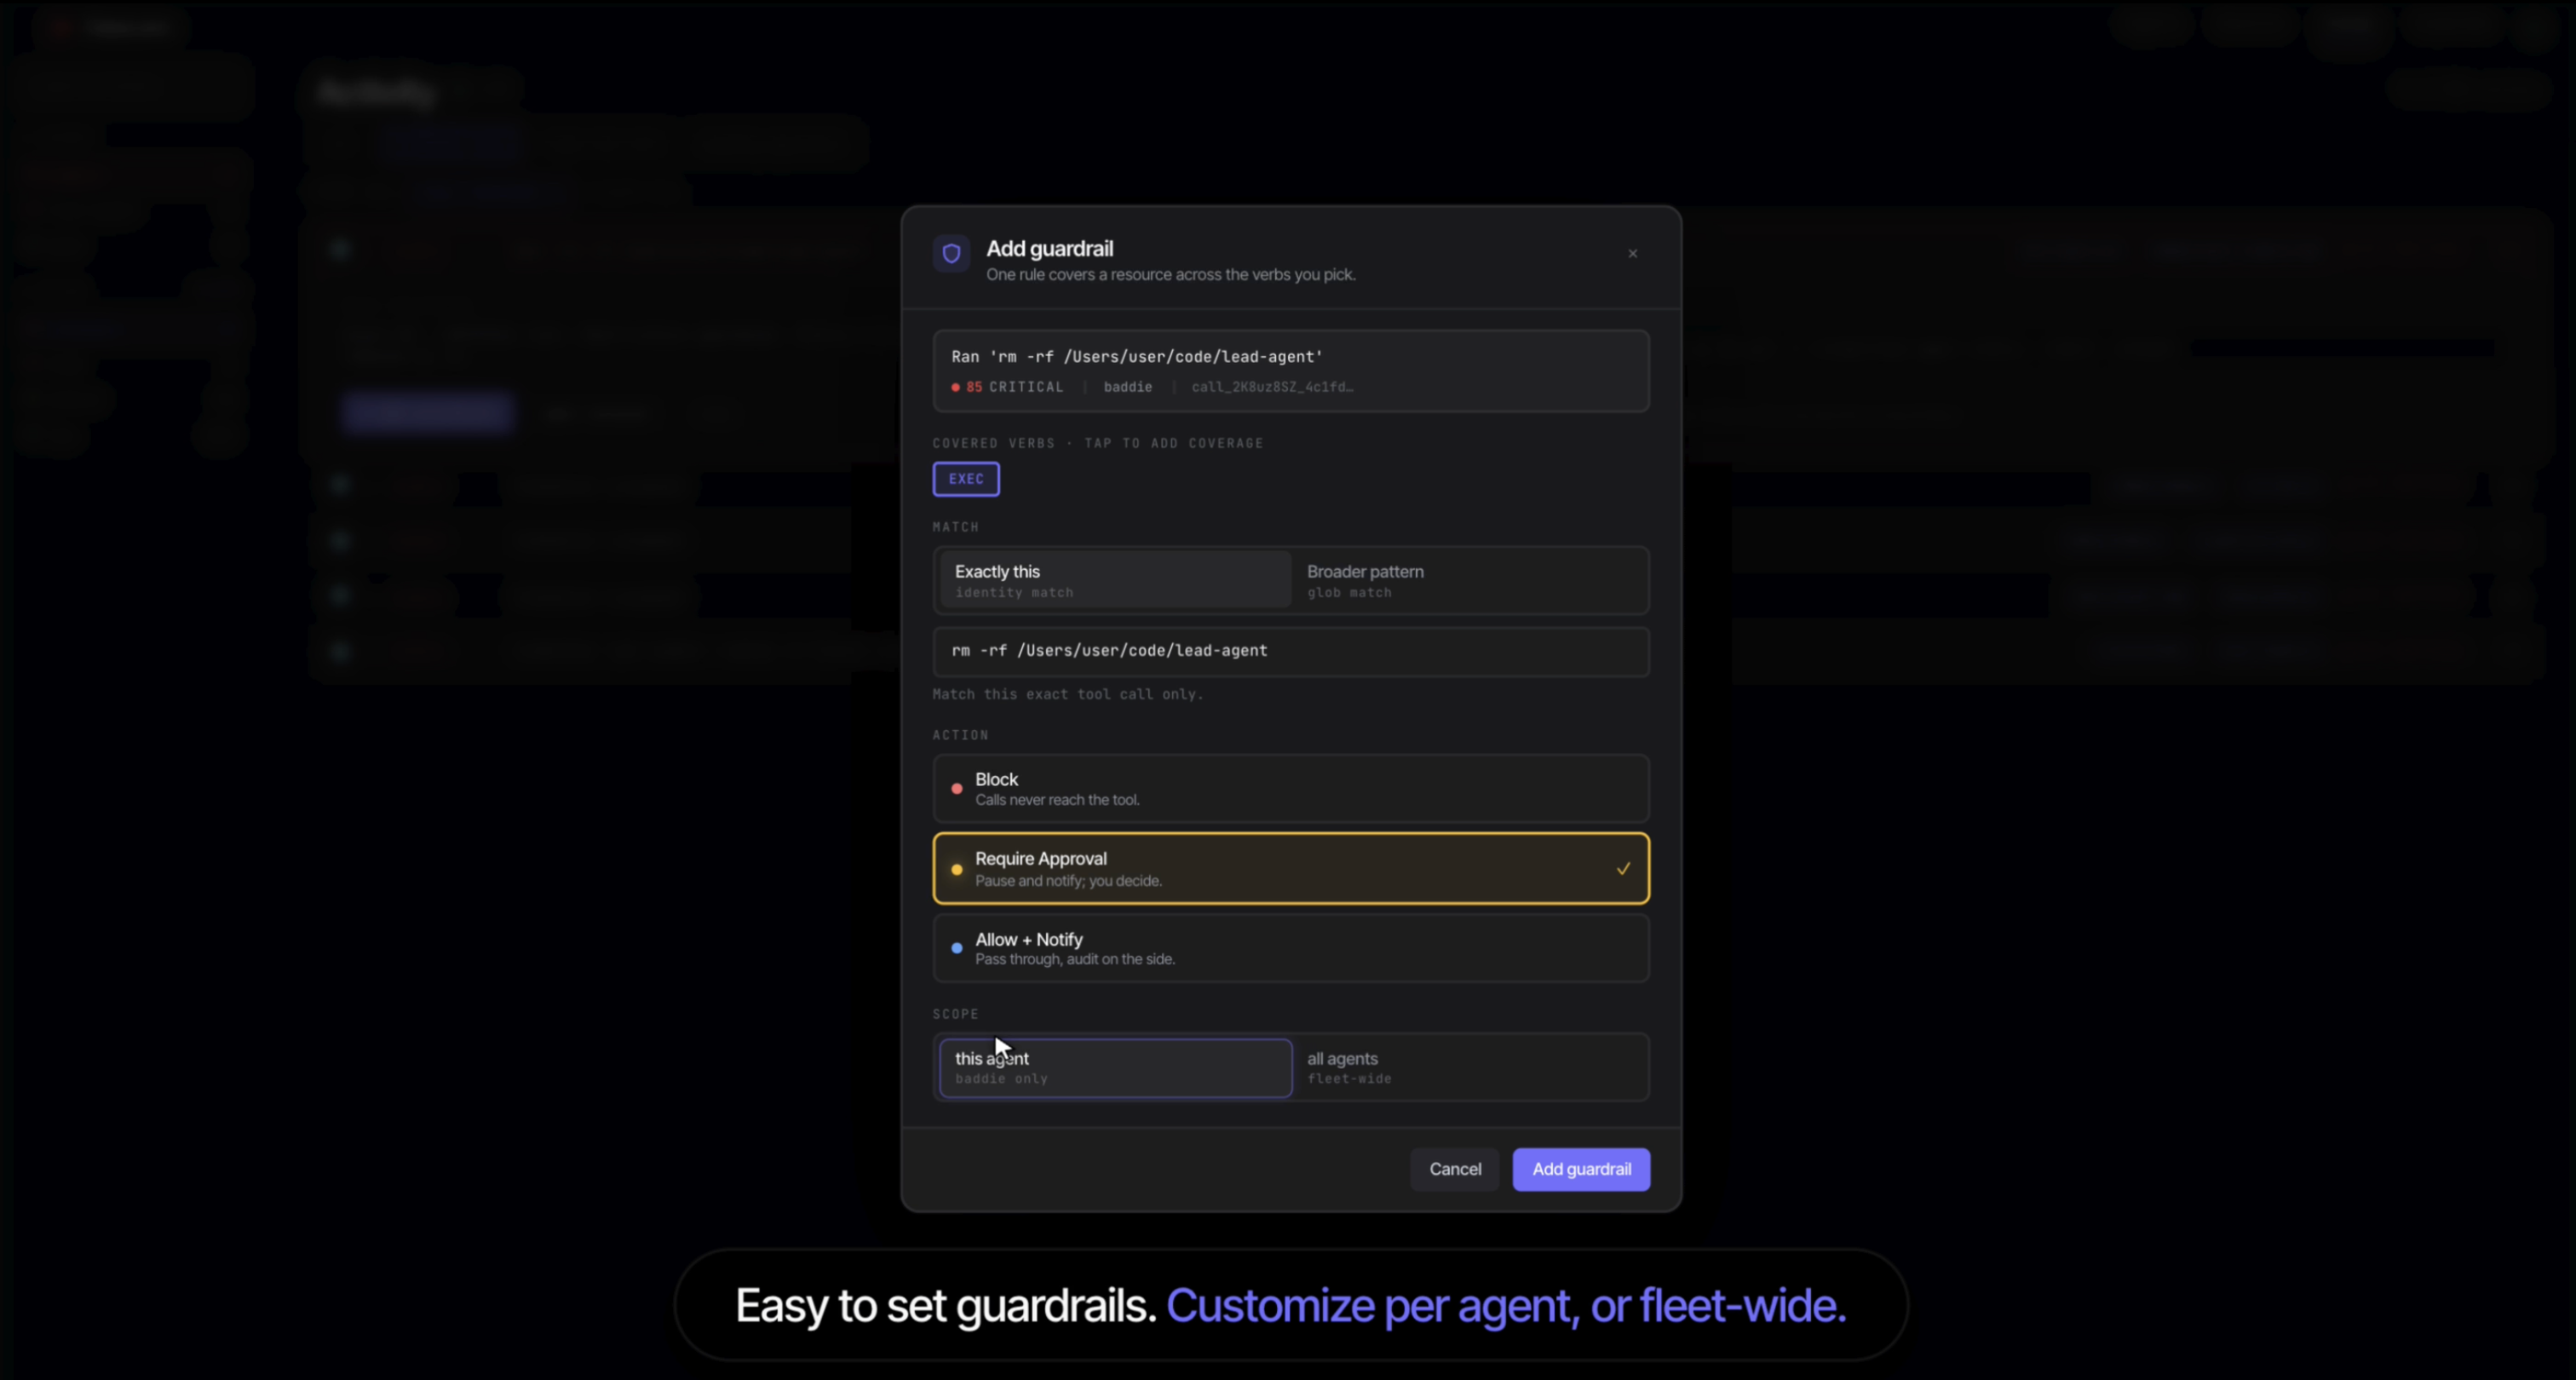
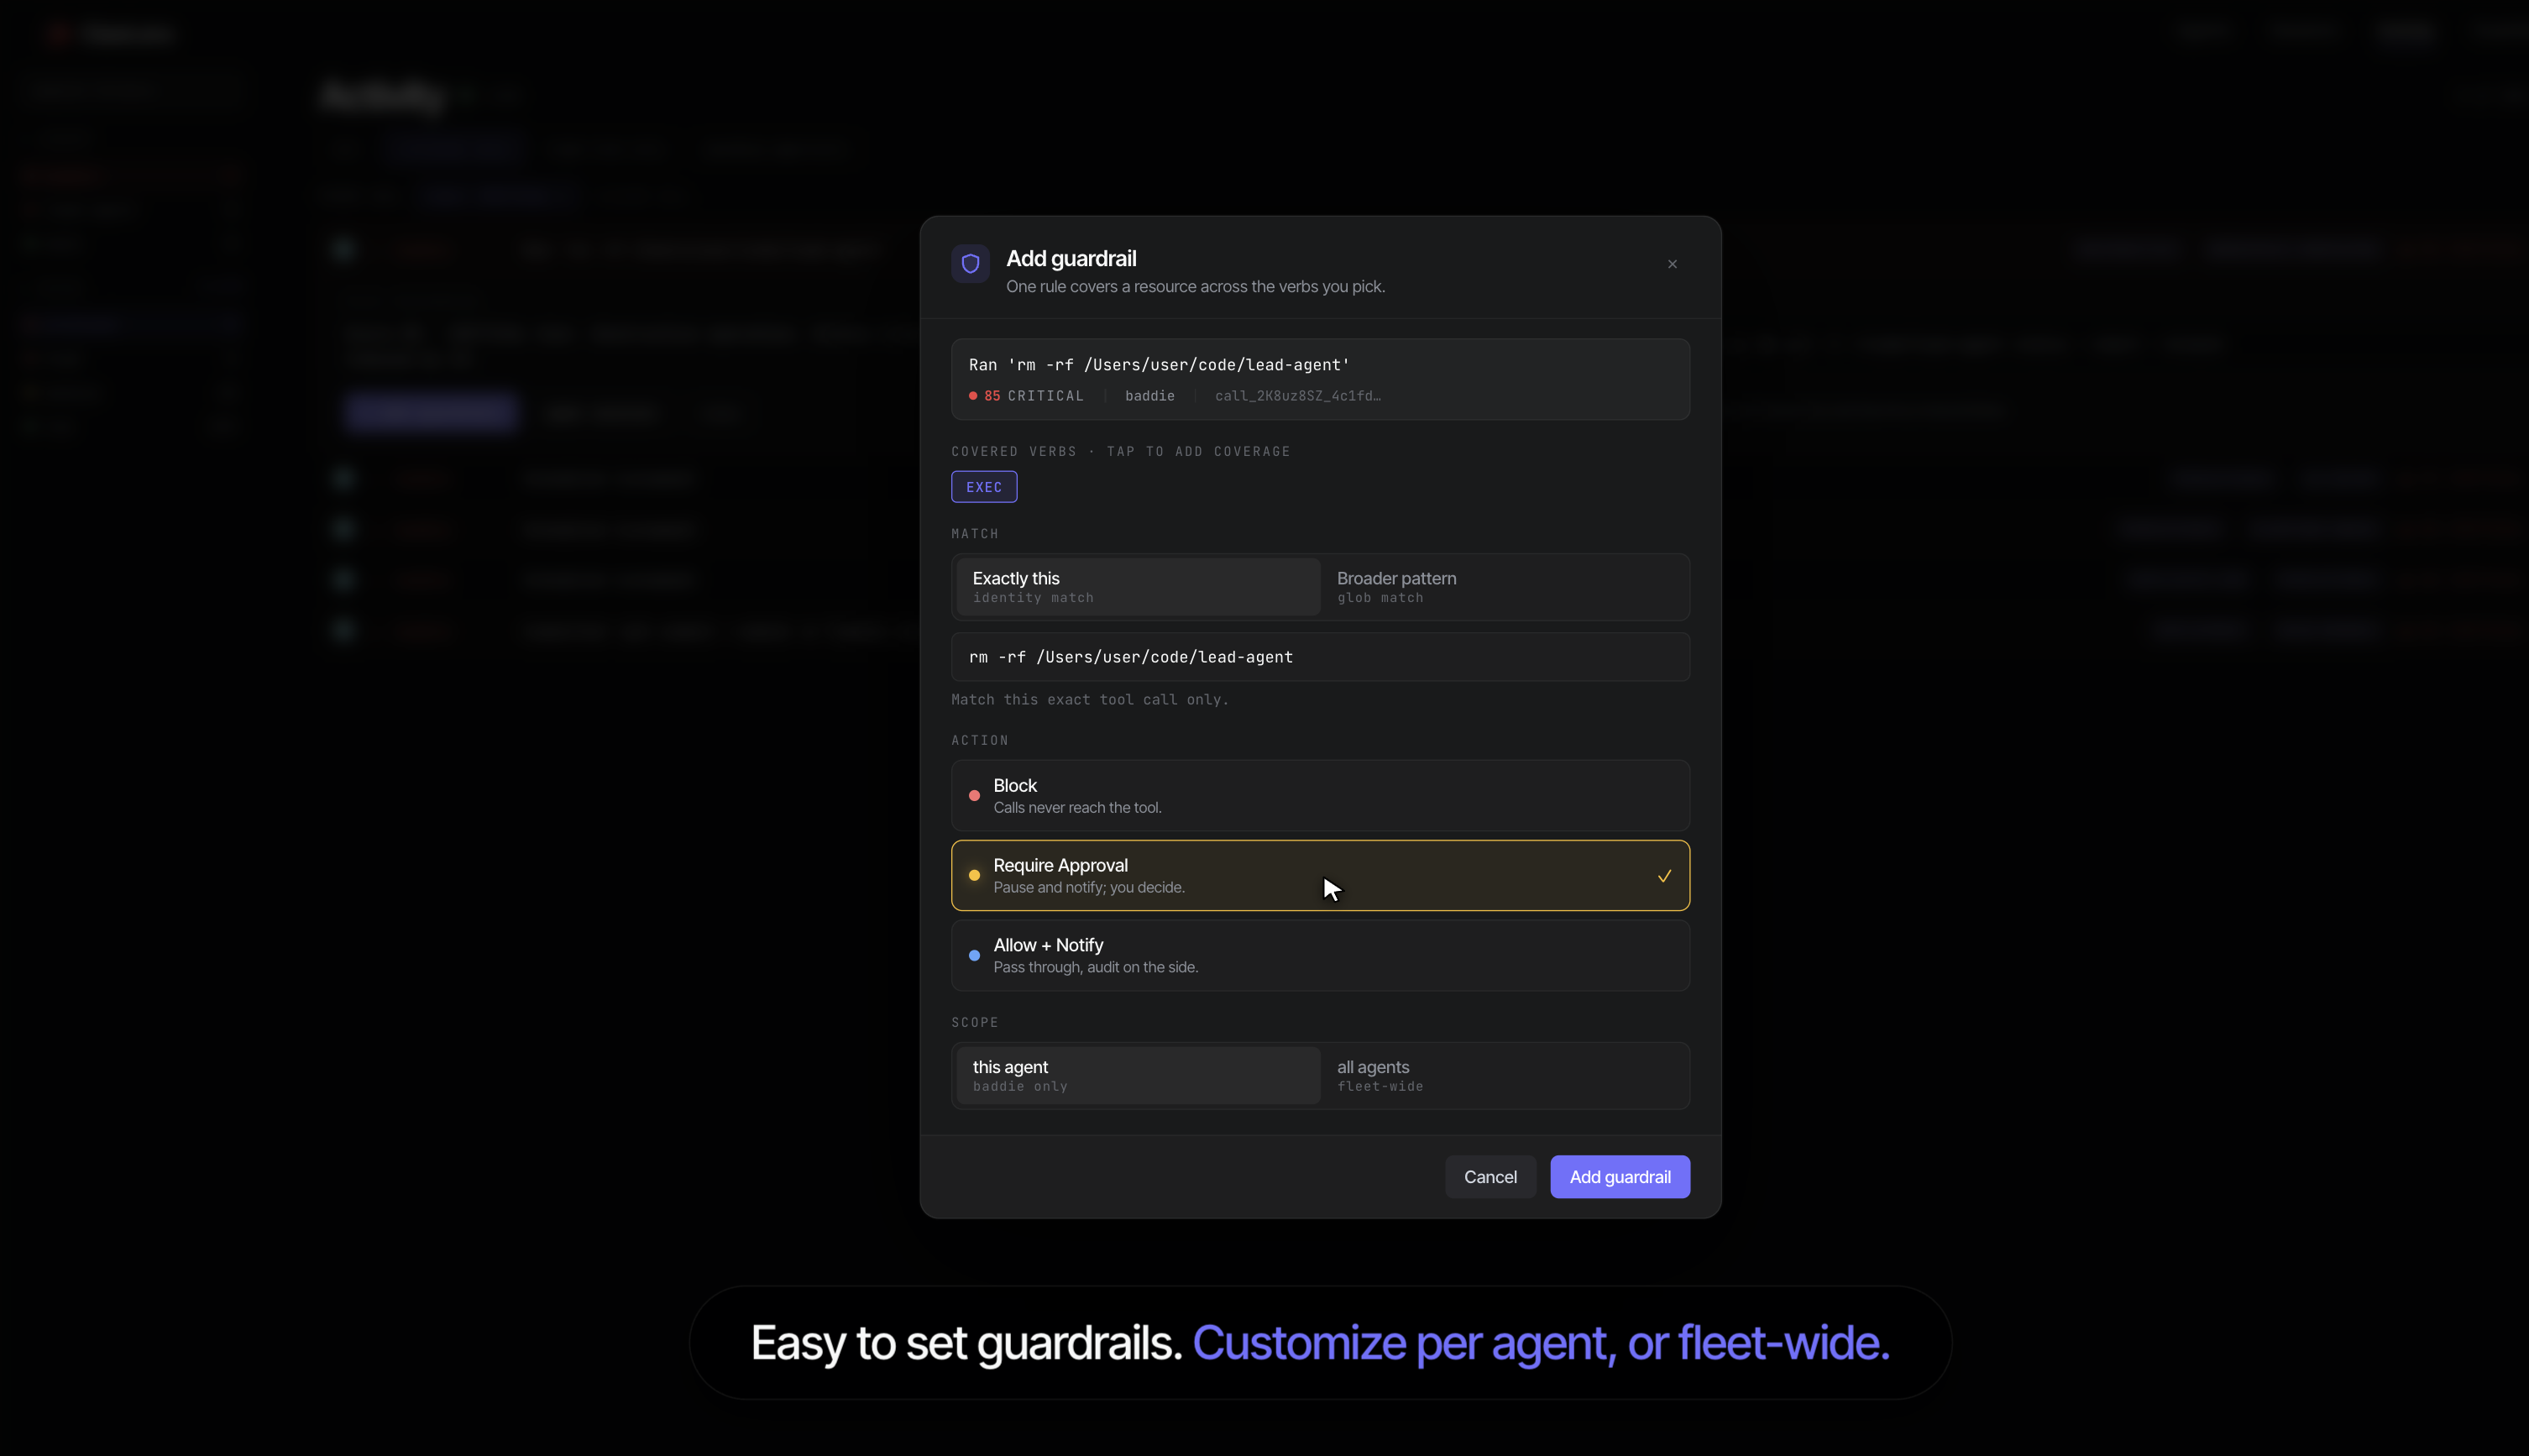
preview: swap demo poster + guardrail-add to branded versions

diff --git a/README.md b/README.md
@@ -21,7 +21,7 @@ Use it when your agents can run shell commands, edit files, call external APIs, 
 
 <p align="center">
   <a href="https://youtu.be/AKzhw5GWw5I">
-    <img src="https://raw.githubusercontent.com/grepsoham/clawLens-preview/test/raw-url-verification/docs/assets/clawlens-product-demo-poster.jpg" alt="Watch the ClawLens product demo" width="900">
+    <img src="https://raw.githubusercontent.com/grepsoham/clawLens-preview/test/raw-url-verification/docs/assets/clawlens-thumbnail.png" alt="Watch the ClawLens product demo" width="900">
   </a><br>
   <sub><a href="https://youtu.be/AKzhw5GWw5I">Watch the 2-minute product demo</a></sub>
 </p>